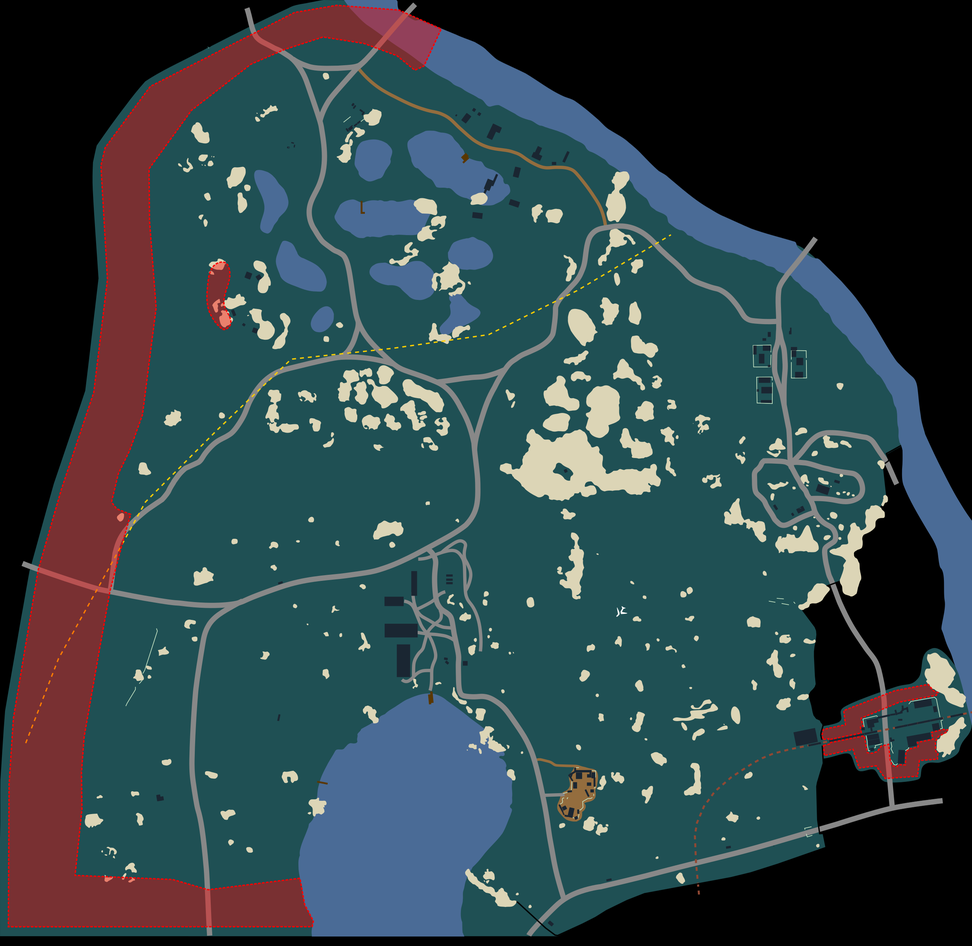
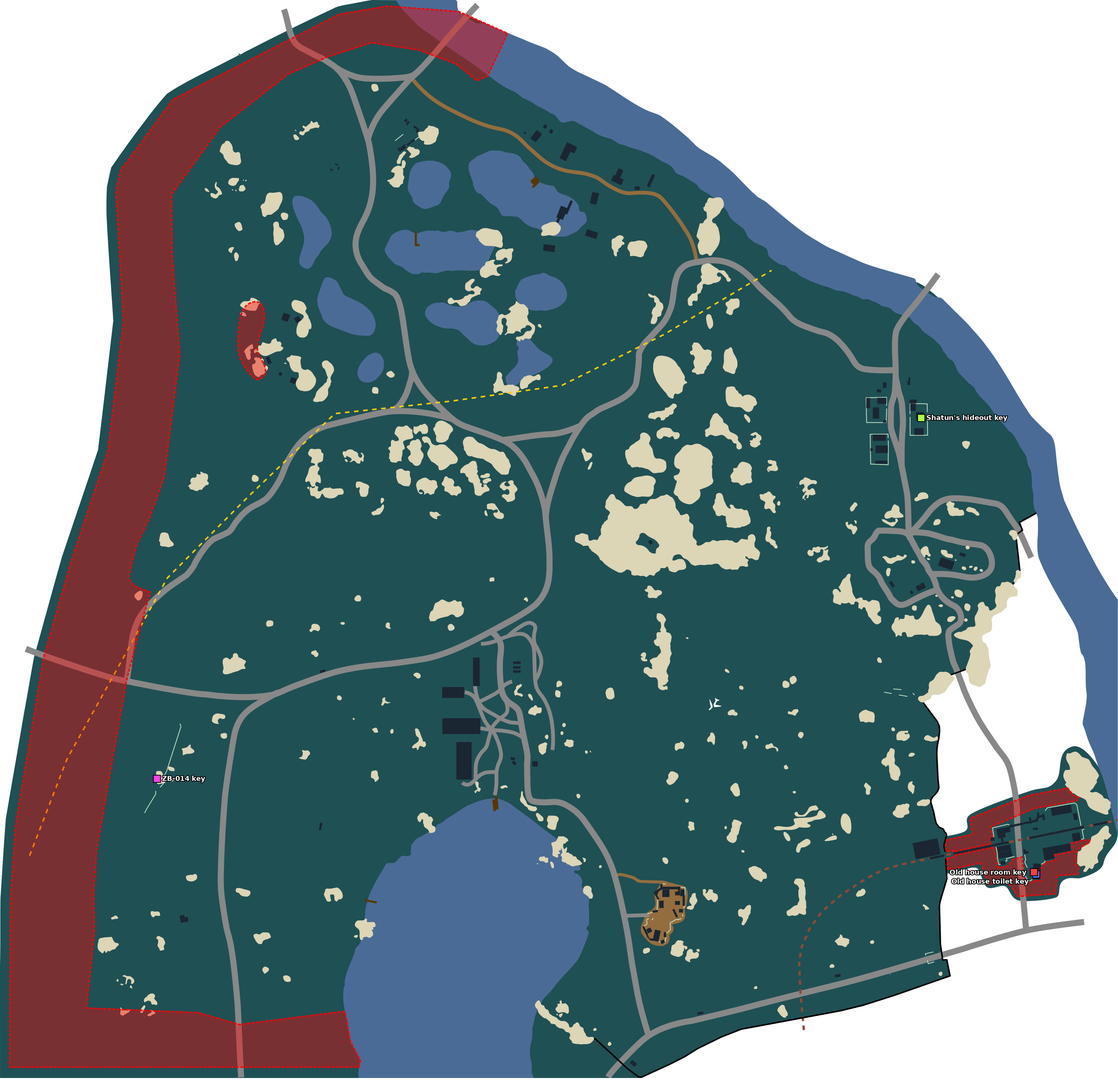
Add the Woods GPS pack with door keys and bilingual extracts
Woods.svg is one ground layer, so every height uses the same picture.
Four lock markers and a Keys legend come from the v1 pack. Extracts and
four transits are the tarkov.dev list in English and Russian. Max Z is
extended so RUAF Gate sits inside without sliding the art.

Changed region(s): [[0.0, 0.0, 1.0, 1.0], [0.0, 0.0, 0.3125, 0.8034], [0.125, 0.7107, 0.1875, 0.7416]]

diff --git a/TarkovOverlay.Tests/MapUnderlayTests.cs b/TarkovOverlay.Tests/MapUnderlayTests.cs
@@ -198,7 +198,7 @@ public class MapUnderlayTests
         var maps = Load();
         var expected = new Dictionary<string, (int W, int H, int Extracts)>
         {
-            ["woods"] = (2560, 2492, 20),
+            ["woods"] = (2946, 2870, 24),
             ["lighthouse"] = (1575, 2560, 12),
             ["shoreline"] = (2560, 1695, 19),
             ["reserve"] = (2560, 2322, 11),
@@ -323,6 +323,95 @@ public class MapUnderlayTests
         Assert.Contains("outside the frame", map.Keycards.Single(k => k.Name == "Factory exit").Tip, StringComparison.OrdinalIgnoreCase);
         Assert.Equal("658199aa38c79576a2569e13", map.Keycards.Single(k => k.Name == "Science office").ItemId);
         Assert.DoesNotContain(map.Keycards, k => k.Name.Contains("stairs", StringComparison.OrdinalIgnoreCase));
+    }
+
+    [Fact]
+    public void WoodsRasterUsesThePackFrameAndDoorKeys()
+    {
+        var woods = Load().Single(m => m.Id == "woods");
+        Assert.Equal(180, woods.Rotation);
+        Assert.Equal(180, woods.CompassDegrees);
+        Assert.Equal(-761, woods.MinX);
+        Assert.Equal(646, woods.MaxX);
+        Assert.Equal(-914, woods.MinZ);
+        const double z1 = 455.841605;
+        Assert.Equal(z1, woods.MaxZ, 4);
+        Assert.Contains("Shebuka", woods.Credit);
+        var (width, height) = PngSize(woods.ImagePath);
+        Assert.Equal(2946, width);
+        Assert.Equal(2870, height);
+
+        using (var doc = JsonDocument.Parse(File.ReadAllText(Path.Combine(MapsDir(), "underlays.json"))))
+        {
+            var map = doc.RootElement.GetProperty("maps").EnumerateArray().Single(m => m.GetProperty("id").GetString() == "woods");
+            var published = map.GetProperty("publishedBounds");
+            Assert.Equal(442, published[1][1].GetDouble());
+            Assert.Equal(646, published[0][0].GetDouble());
+        }
+
+        // Published south edge stays on the original raster. The pad below it is empty.
+        var (_, edgeV) = Uv(woods, 0, 442);
+        Assert.Equal(2841.0 / 2870.0, edgeV, 4);
+
+        // Rotation 180: u=(646-x)/1407. ZB-014's door is the magenta marker.
+        Assert.True(WorldMath.TryImageUv(448.62, 65.58, woods.MinX, woods.MaxX, woods.MinZ, woods.MaxZ, woods.Rotation, out var lockU, out var lockV));
+        Assert.Equal((646 - 448.62) / 1407.0, lockU, 4);
+        Assert.InRange(lockU, 0, 1);
+        Assert.InRange(lockV, 0, 1);
+        var (_, shatunV) = Uv(woods, -513.13, -388.48);
+        Assert.True(shatunV < lockV);
+
+        Assert.Equal(24, woods.Extracts.Length);
+        Assert.Equal(20, woods.Extracts.Count(e => e.Faction is "pmc" or "scav" or "shared"));
+        Assert.Equal(4, woods.Extracts.Count(e => e.Faction == "transit"));
+        var gate = woods.Extracts.Single(e => e.NameEn == "RUAF Gate");
+        Assert.Equal("Ворота ВС РФ", gate.NameRu);
+        Assert.Equal("pmc", gate.Faction);
+        Assert.Equal(-142.5, gate.X);
+        Assert.Equal(-2.37, gate.Y, 2);
+        Assert.Equal(447.58, gate.Z);
+        var flare = woods.Extracts.Single(e => e.NameEn == "Power Line Passage (Flare)");
+        Assert.Equal("Проход у ЛЭП (Сигнал)", flare.NameRu);
+        Assert.Equal(-1.75, flare.Y, 2);
+        var bridge = woods.Extracts.Single(e => e.NameEn == "Friendship Bridge (Co-Op)");
+        Assert.Equal("Мост дружбы (Совм.)", bridge.NameRu);
+        Assert.Equal("shared", bridge.Faction);
+        var bunker = woods.Extracts.Single(e => e.NameEn == "Scav Bunker");
+        Assert.Equal("Бункер Диких", bunker.NameRu);
+        Assert.Equal("scav", bunker.Faction);
+        var customs = woods.Extracts.Single(e => e.NameEn == "Transit to Customs");
+        Assert.Equal("Переход на Таможню", customs.NameRu);
+        Assert.Equal("transit", customs.Faction);
+        Assert.Equal("41", customs.Id);
+        foreach (var extract in woods.Extracts)
+        {
+            Assert.False(string.IsNullOrWhiteSpace(extract.NameRu));
+            var (eu, ev) = Uv(woods, extract);
+            Assert.InRange(eu, 0, 1);
+            Assert.InRange(ev, 0, 1);
+            if (extract.NameEn == "RUAF Gate")
+                Assert.True(ev > edgeV, "RUAF Gate sits in the padded strip, past the published edge");
+            else
+                Assert.True(ev <= edgeV + 1e-4, extract.NameEn);
+        }
+
+        Assert.Equal(14, woods.Labels.Length);
+        Assert.Contains(woods.Labels, l => l.Text == "Power Line Passage (Flare)" && l.TextRu == "Проход у ЛЭП (Сигнал)");
+        Assert.Contains(woods.Labels, l => l.Text == "Transit to Factory" && l.TextRu == "Переход на Завод");
+        Assert.Single(woods.Labels, l => l.Text == "UN Roadblock");
+        Assert.Single(woods.Labels, l => l.Text == "Outskirts");
+        Assert.DoesNotContain(woods.Labels, l => l.Text is "Scav Bunker" or "Eastern Rocks" or "Sawmill" or "Cultist Village" or "wood_sniper_exit" or "East Gate");
+
+        Assert.Equal(4, woods.Keycards.Length);
+        Assert.Equal(
+            new[] { "#ff3f3f", "#3f77ff", "#afff3f", "#ff3fe7" },
+            woods.Keycards.Select(k => k.Fill).ToArray());
+        Assert.All(woods.Keycards, k => Assert.False(k.RoomFill));
+        Assert.All(woods.Keycards, k => Assert.Equal(1, k.Count));
+        Assert.Equal("6761a6ccd9bbb27ad703c48a", woods.Keycards.Single(k => k.Name == "Old house room").ItemId);
+        Assert.Equal("6939948dc2ceb9acd7082eb2", woods.Keycards.Single(k => k.Name == "Old house toilet").ItemId);
+        Assert.Equal("664d3db6db5dea2bad286955", woods.Keycards.Single(k => k.Name == "Shatun's hideout").ItemId);
+        Assert.Equal("591afe0186f77431bd616a11", woods.Keycards.Single(k => k.Name == "ZB-014").ItemId);
     }
 
     [Fact]

diff --git a/TarkovOverlay/Services/ExtractNav.cs b/TarkovOverlay/Services/ExtractNav.cs
@@ -7,12 +7,15 @@ public static class ExtractNav
     public static bool FactionVisible(string? faction, string? side)
     {
         if (side is not ("pmc" or "scav")) return true;
-        if (string.IsNullOrEmpty(faction) || faction is "shared") return true;
-        return string.Equals(faction, side, StringComparison.OrdinalIgnoreCase);
+        var kind = faction?.Trim().ToLowerInvariant();
+        if (string.IsNullOrEmpty(kind) || kind is "shared") return true;
+        // Map transits are PMC exits. A scav raid does not list them.
+        if (kind is "transit") return side == "pmc";
+        return kind == side;
     }
 
     /// <summary>
-    /// Extracts drawn on the map overview. PMC and shared are the default.
+    /// Extracts drawn on the map overview. PMC, shared, and transits are the default.
     /// A known scav raid shows scav and shared instead. The full list, including the other faction, stays on the map data.
     /// </summary>
     public static bool OverviewVisible(string? faction, string? side)
@@ -20,7 +23,7 @@ public static class ExtractNav
         if (string.Equals(side, "scav", StringComparison.OrdinalIgnoreCase))
             return FactionVisible(faction, "scav");
         var kind = faction?.Trim().ToLowerInvariant();
-        return string.IsNullOrEmpty(kind) || kind is "pmc" or "shared";
+        return string.IsNullOrEmpty(kind) || kind is "pmc" or "shared" or "transit";
     }
 
     public static NearestExtract? Nearest(GameMap map, Vec3 pos, string? side)

diff --git a/TarkovOverlay/Windows/MapWindow.xaml.cs b/TarkovOverlay/Windows/MapWindow.xaml.cs
@@ -1079,6 +1079,7 @@ public partial class MapWindow : Window
         "pmc" => PmcBrush,
         "scav" => ScavBrush,
         "shared" => SharedBrush,
+        "transit" => TransitBrush,
         _ => OtherBrush
     };
 
@@ -1093,6 +1094,7 @@ public partial class MapWindow : Window
     private static readonly Brush PmcBrush = Freeze(Color.FromRgb(90, 200, 120));
     private static readonly Brush ScavBrush = Freeze(Color.FromRgb(230, 180, 80));
     private static readonly Brush SharedBrush = Freeze(Color.FromRgb(142, 180, 255));
+    private static readonly Brush TransitBrush = Freeze(Color.FromRgb(255, 154, 60));
     private static readonly Brush OtherBrush = Freeze(Color.FromRgb(200, 205, 210));
     private static readonly Brush QuietBrush = Freeze(Color.FromRgb(230, 180, 70));
     private static readonly Brush LabelBg = Freeze(Color.FromArgb(210, 16, 19, 22));

diff --git a/TarkovOverlay.Tests/GpsTests.cs b/TarkovOverlay.Tests/GpsTests.cs
@@ -66,6 +66,12 @@ public class GpsTests
         Assert.True(ExtractNav.OverviewVisible("scav", "scav"));
         Assert.True(ExtractNav.OverviewVisible("shared", "scav"));
         Assert.False(ExtractNav.OverviewVisible("pmc", "scav"));
+        Assert.True(ExtractNav.OverviewVisible("transit", null));
+        Assert.True(ExtractNav.OverviewVisible("transit", "pmc"));
+        Assert.False(ExtractNav.OverviewVisible("transit", "scav"));
+        Assert.True(ExtractNav.FactionVisible("transit", "pmc"));
+        Assert.False(ExtractNav.FactionVisible("transit", "scav"));
+        Assert.True(ExtractNav.FactionVisible("PMC", "pmc"));
     }
 
     [Fact]

diff --git a/README.ru.md b/README.ru.md
@@ -47,11 +47,12 @@
 - У Лаборатории нет улицы. Окно остаётся на плане этажа: **T / 1 / 2** (Technical, First, Second). Этаж берётся по высоте (ниже -0.9 технический, ниже 3 первый, иначе второй). Кнопка держит выбранный этаж, пока высота не перейдёт в другой диапазон. Закрытые комнаты закрашены цветом ключ-карты. Кнопка **Keys** показывает эти цвета; неопознанный ключ — серая метка без заливки комнаты. Масштаб и следование за игроком такие же, как на остальных картах. Выходы берутся с tarkov.dev и рисуются на своём этаже.
 - Завод, включая ночной, — крытый комплекс. Окно остаётся на плане этажа: **-1 / 1 / 2 / 3** (подвал, первый, второй, третий). Этаж берётся по высоте (ниже -1 подвал, ниже 3 первый, ниже 6 второй, иначе третий). Кнопка держит выбранный этаж, пока высота не перейдёт в другой диапазон. До первой позиции показывается обзор. Замки — метки дверей: ключ аварийного выхода (оранжевый) и ключ-карта склада TerraGroup (фиолетовая). Кнопка **Keys** показывает эти два цвета. Масштаб и следование за игроком такие же, как на остальных картах, и смена этажа не сбрасывает вид. Выходы берутся с tarkov.dev и рисуются на своём этаже.
 - Эпицентр использует растр GroundZero.svg на официальной рамке (`x0=249`, `z0=-124`, `x1=-99`, `z1=364`, поворот 180). Окно остаётся на плане этажа: **-1 / 1 / 2 / 3** (подземный, первый, второй, третий). Этаж берётся по высоте (ниже 21 подземный, ниже 28 первый, ниже 32.3 второй, иначе третий). Кнопка держит выбранный этаж, пока высота не перейдёт в другой диапазон. До первой позиции показывается обзор — это изображение первого этажа. Замки — метки дверей. Кнопка **Keys** показывает пять цветов на карте; второй ключ аварийного выхода Завода лежит за рамкой и не рисуется. Масштаб и следование за игроком такие же, как на остальных картах, и смена этажа не сбрасывает вид. Выходы берутся с tarkov.dev и рисуются на этаже, который выбирает их высота. Подписи выходов уже нарисованы на изображении первого этажа. Около 57% контейнеров попадают на пиксели зданий. Сдвиг x+2 задел бы больше и сдвинул бы метки дверей с нарисованных пикселей, поэтому официальная рамка не меняется.
+- Лес использует растр Woods.svg (`x0=646`, `z0=-914`, `x1=-761`, поворот 180). В SVG один наземный слой, поэтому любая высота показывает эту картинку и переключателя этажей нет. Верхняя граница Z расширена примерно до 455.84, чтобы ворота ВС РФ, опубликованные на несколько метров дальше 442, попали в кадр. Сам рисунок остаётся на исходной рамке. Замки — метки дверей: комната старого дома, туалет старого дома, убежище Шатуна и ЗБ-014. Кнопка **Keys** показывает эти четыре цвета. Заливки комнат нет. Выходы и четыре перехода берутся с tarkov.dev на английском и русском. На обзоре ЧВК рисуются выходы ЧВК, общие и переходы. Выходы диких остаются в файле.
 - Скрыть карту — не выключить стрелку. Скрыть стрелку — не забыть окно карты. `Ctrl+Alt+O` по-прежнему прячет весь оверлей.
 - После разбора имени файла скриншот удаляется (`GpsDeleteAfterParse`, по умолчанию включено), чтобы папка не разрасталась. Автоскриншот можно выключить в трее и снимать кадр вручную.
 - Текущая карта берётся из логов игры (те же логи, что и для PvP/PvE/Сезона). Вне рейда стрелка и карта скрыты.
 
-Подложка лежит на публичных рамках карт [tarkov.dev](https://tarkov.dev) (границы и `coordinateRotation` из их данных под лицензией MIT, сверенные с координатами спавнов и выходов того же API). Таможня использует растр Customs.svg автора Shebuka из [the-hideout/tarkov-dev-svg-maps](https://github.com/the-hideout/tarkov-dev-svg-maps) (CC BY-NC-SA 4.0). Лаборатория использует Labs.svg из того же проекта. Рамка подогнана: у tarkov.dev нет svgBounds для Лаборатории, поэтому маркер может стоять на несколько метров в стороне. Завод использует Factory.svg из того же проекта на опубликованной рамке: обзор совпадает с первым этажом, остальные этажи делят ту же рамку. Эпицентр использует GroundZero.svg на официальных границах tarkov.dev: обзор — это первый этаж, остальные этажи делят ту же рамку. EFT TarkDev 2026-11-04 разрешил использовать сайт и его данные для этой программы; заметка и скриншот лежат в `TarkovOverlay/Maps/attribution/`. Маркеры выходов Таможни берутся из [json.tarkov.dev/regular/maps](https://json.tarkov.dev/regular/maps): ЗБ-1011 и ЗБ-1012 слева, Перекрёсток, Трейлерный парк и Блокпост ВС РФ справа. Выходы Завода, Эпицентра и Лаборатории берутся из того же API и рисуются на этаже, который выбирает их высота. На обзоре показываются выходы ЧВК и общие; выходы диких остаются в этих данных для будущего фильтра по списку рейда. Подписи следуют языку оверлея. Лес, Маяк, Берег, Резерв, Развязка, Улицы Таркова и Терминал используют соответствующий SVG того же проекта (обзор земли, без верхних этажей). Рамки Леса и Развязки чуть расширены, где выход оказывался сразу за опубликованной границей. У Завода и Эпицентра рамка пакета не сдвигается, потому что обзор — это растр первого этажа. Ночной Завод и Эпицентр 21 уровня используют те же картинки через прежние псевдонимы. У Лабиринта в том репозитории нет SVG, поэтому там остаётся пустая рамка. Тайлы MapGenie и текстуры карты из самой игры нельзя переупаковывать. Это не официальная карта игры. Нажатие клавиши скриншота — обычный ввод. Персонаж не двигается, покупки и продажи не совершаются, данные аккаунта не читаются.
+Подложка лежит на публичных рамках карт [tarkov.dev](https://tarkov.dev) (границы и `coordinateRotation` из их данных под лицензией MIT, сверенные с координатами спавнов и выходов того же API). Таможня использует растр Customs.svg автора Shebuka из [the-hideout/tarkov-dev-svg-maps](https://github.com/the-hideout/tarkov-dev-svg-maps) (CC BY-NC-SA 4.0). Лаборатория использует Labs.svg из того же проекта. Рамка подогнана: у tarkov.dev нет svgBounds для Лаборатории, поэтому маркер может стоять на несколько метров в стороне. Завод использует Factory.svg из того же проекта на опубликованной рамке: обзор совпадает с первым этажом, остальные этажи делят ту же рамку. Эпицентр использует GroundZero.svg на официальных границах tarkov.dev: обзор — это первый этаж, остальные этажи делят ту же рамку. Лес использует пакет Woods v1 (Woods.svg): один наземный слой, четыре метки дверей и без переключателя этажей. Южный край расширен, чтобы ворота ВС РФ попали в кадр; рисунок пакета остаётся на опубликованной рамке. EFT TarkDev 2026-11-04 разрешил использовать сайт и его данные для этой программы; заметка и скриншот лежат в `TarkovOverlay/Maps/attribution/`. Маркеры выходов Таможни берутся из [json.tarkov.dev/regular/maps](https://json.tarkov.dev/regular/maps): ЗБ-1011 и ЗБ-1012 слева, Перекрёсток, Трейлерный парк и Блокпост ВС РФ справа. Выходы Завода, Эпицентра и Лаборатории берутся из того же API и рисуются на этаже, который выбирает их высота. Выходы Леса и четыре перехода берутся из того же API. На обзоре показываются выходы ЧВК и общие; на Лесу ещё и переходы. Выходы диких остаются в этих данных для будущего фильтра по списку рейда. Подписи следуют языку оверлея. Маяк, Берег, Резерв, Развязка, Улицы Таркова и Терминал используют соответствующий SVG того же проекта (обзор земли, без верхних этажей). Рамка Развязки чуть расширена, где выход оказывался сразу за опубликованной границей. У Завода и Эпицентра рамка пакета не сдвигается, потому что обзор — это растр первого этажа. Ночной Завод и Эпицентр 21 уровня используют те же картинки через прежние псевдонимы. У Лабиринта в том репозитории нет SVG, поэтому там остаётся пустая рамка. Тайлы MapGenie и текстуры карты из самой игры нельзя переупаковывать. Это не официальная карта игры. Нажатие клавиши скриншота — обычный ввод. Персонаж не двигается, покупки и продажи не совершаются, данные аккаунта не читаются.
 
 ## Как это работает
 

diff --git a/README.md b/README.md
@@ -47,11 +47,12 @@ In a raid the overlay can press the in-game screenshot key (Print Screen by defa
 - The Lab has no outdoor map. The window stays on the floor plan: **T / 1 / 2** (Technical, First, Second). Your height picks the floor (below -0.9 Technical, below 3 First, otherwise Second). A button keeps that floor until you change level. Locked rooms are painted in the keycard color. **Keys** lists those colors; the unidentified key is a gray marker with no room fill. Zoom and follow work the same way as on the other maps. Extracts come from tarkov.dev and are drawn on the floor they belong to.
 - Factory is an indoor complex, including night Factory. The window stays on the floor plan: **-1 / 1 / 2 / 3** (basement, ground, second, third). Your height picks the floor (below -1 basement, below 3 ground, below 6 second, otherwise third). A button keeps that floor until you change level. Until a position arrives the window shows the overview. Locks are door markers: the emergency exit key (orange) and the TerraGroup storage keycard (violet). **Keys** lists those two colors. Zoom and follow work the same way as on the other maps, and switching floors keeps the view. Extracts come from tarkov.dev and are drawn on the floor they belong to.
 - Ground Zero uses the GroundZero.svg raster on the official frame (`x0=249`, `z0=-124`, `x1=-99`, `z1=364`, rotation 180). The window stays on the floor plan: **-1 / 1 / 2 / 3** (underground, ground, second, third). Your height picks the floor (below 21 underground, below 28 ground, below 32.3 second, otherwise third). A button keeps that floor until you change level. Until a position arrives the window shows the overview, which is the ground raster. Locks are door markers. **Keys** lists the five colors drawn on the map; a second Factory emergency exit key sits outside the frame and is not drawn. Zoom and follow work the same way as on the other maps, and switching floors keeps the view. Extracts come from tarkov.dev and are drawn on the floor their height selects. The ground image already paints those captions. About 57% of loot containers land on building pixels. An x+2 shift would catch more of them and would also move the door markers off the painted pixels, so the official frame is unchanged.
+- Woods uses the Woods.svg raster (`x0=646`, `z0=-914`, `x1=-761`, rotation 180). The SVG has one ground layer, so every height uses that picture and there is no floor switch. Max Z is extended to about 455.84 so RUAF Gate, published a few metres past 442, sits inside the picture. The art itself stays on the original rect. Locks are door markers: old house room, old house toilet, Shatun's hideout, and ZB-014. **Keys** lists those four colors. There is no room fill. Extracts and the four transits come from tarkov.dev in English and Russian. A PMC overview draws PMC, shared, and transit markers. Scav extracts stay in the file.
 - Hiding the map does not turn off the arrow. Hiding the arrow does not forget the map window. `Ctrl+Alt+O` still hides the whole overlay.
 - After a file name is parsed, that screenshot is deleted (`GpsDeleteAfterParse`, default on) so the folder does not fill up. Turn auto-capture off in the tray if you only want manual screenshots.
 - The current map comes from the game's own log files (the same logs used for PvP/PvE/Season). Outside a raid the arrow and the map hide.
 
-The underlay sits on the public [tarkov.dev](https://tarkov.dev) map frames (bounds and `coordinateRotation` from their MIT-licensed map data, checked against that API's spawn and extract coordinates). Customs uses the Customs.svg raster by Shebuka from [the-hideout/tarkov-dev-svg-maps](https://github.com/the-hideout/tarkov-dev-svg-maps) (CC BY-NC-SA 4.0). The Lab uses Labs.svg from that same project. Its frame is fitted, because tarkov.dev publishes no svgBounds for Labs, so a marker can sit a few metres off. Factory uses Factory.svg from that same project on the published frame; the overview is the ground floor, and the other floors share that frame. Ground Zero uses GroundZero.svg on the official tarkov.dev bounds; the overview is the ground raster, and the other floors share that frame. EFT TarkDev allowed use of the site and its data for this project on 2026-11-04; the note and screenshot are in `TarkovOverlay/Maps/attribution/`. Customs extract markers use positions from [json.tarkov.dev/regular/maps](https://json.tarkov.dev/regular/maps): ZB-1011 and ZB-1012 on the left, Crossroads, Trailer Park, and RUAF on the right. Factory, Ground Zero, and Lab extracts come from that same API and are drawn on the floor their height selects. The overview shows PMC and shared extracts; scav extracts stay in that file for a later raid-list filter. Labels follow the overlay language. Woods, Lighthouse, Shoreline, Reserve, Interchange, Streets of Tarkov, and Terminal use the matching ground-overview SVG from that same project. Woods and Interchange are padded a few metres where an extract sat just outside the published rect. Factory and Ground Zero keep their pack frames, because each overview is the ground-floor raster. Night Factory and Ground Zero level 21 keep using those images through the existing aliases. Labyrinth has no SVG in that repo, so it stays a plain frame. MapGenie tiles and the game's own map textures are not licensed for redistribution. This is not an official game map. Pressing the screenshot key is ordinary input. It does not move your character, buy or sell items, or read account data.
+The underlay sits on the public [tarkov.dev](https://tarkov.dev) map frames (bounds and `coordinateRotation` from their MIT-licensed map data, checked against that API's spawn and extract coordinates). Customs uses the Customs.svg raster by Shebuka from [the-hideout/tarkov-dev-svg-maps](https://github.com/the-hideout/tarkov-dev-svg-maps) (CC BY-NC-SA 4.0). The Lab uses Labs.svg from that same project. Its frame is fitted, because tarkov.dev publishes no svgBounds for Labs, so a marker can sit a few metres off. Factory uses Factory.svg from that same project on the published frame; the overview is the ground floor, and the other floors share that frame. Ground Zero uses GroundZero.svg on the official tarkov.dev bounds; the overview is the ground raster, and the other floors share that frame. Woods uses the Woods v1 pack of Woods.svg: one ground layer, four door markers, and no floor switch. Its south edge is extended so RUAF Gate sits inside; the pack art stays on the published rect. EFT TarkDev allowed use of the site and its data for this project on 2026-11-04; the note and screenshot are in `TarkovOverlay/Maps/attribution/`. Customs extract markers use positions from [json.tarkov.dev/regular/maps](https://json.tarkov.dev/regular/maps): ZB-1011 and ZB-1012 on the left, Crossroads, Trailer Park, and RUAF on the right. Factory, Ground Zero, and Lab extracts come from that same API and are drawn on the floor their height selects. Woods extracts and its four transits come from that same API. The overview shows PMC and shared extracts; Woods also draws those transits. Scav extracts stay in that file for a later raid-list filter. Labels follow the overlay language. Lighthouse, Shoreline, Reserve, Interchange, Streets of Tarkov, and Terminal use the matching ground-overview SVG from that same project. Interchange is padded a few metres where an extract sat just outside the published rect. Factory and Ground Zero keep their pack frames, because each overview is the ground-floor raster. Night Factory and Ground Zero level 21 keep using those images through the existing aliases. Labyrinth has no SVG in that repo, so it stays a plain frame. MapGenie tiles and the game's own map textures are not licensed for redistribution. This is not an official game map. Pressing the screenshot key is ordinary input. It does not move your character, buy or sell items, or read account data.
 
 ## How it works
 

diff --git a/TarkovOverlay/Maps/attribution/SOURCE.md b/TarkovOverlay/Maps/attribution/SOURCE.md
@@ -49,6 +49,18 @@ The Ground Zero GPS images (`Maps/images/ground-zero.png`, `Maps/interiors/groun
 - GroundZero.svg has no locked-room fills. Door locks are colored markers. The legend is `Maps/ground-zero-keycards.json` (parking utility, factory exit, bank register, horse toilet, science office). Five markers are on the map. A second Factory emergency exit key at x=264.95 is outside the frame and is not drawn. The same five locks are published for ground-zero-21.
 - Extract positions: https://json.tarkov.dev/regular/maps (`Maps/ground-zero-extracts.json`), English and Russian names from `maps_en` / `maps_ru`, fetched with User-Agent `TarkovOverlay/1.0`. The ground raster paints the captions. A GPS marker is drawn on the floor its Y selects. Scav Bunker (East Gate), UN Roadblock, and Pinewood Basement are outside the frame. ground-zero-21 shares the in-frame extracts and does not publish those three.
 
+## Woods.svg (tarkov.dev)
+
+The Woods GPS image (`Maps/images/woods.png`) is a raster of the tarkov.dev Woods map. The SVG has a single ground layer, so the same picture is used at every height. There is no bunker floor and no floor switch.
+
+- URL: https://raw.githubusercontent.com/the-hideout/tarkov-dev-svg-maps/master/Woods.svg
+- Also: https://assets.tarkov.dev/maps/svg/Woods.svg · https://tarkov.dev/map/woods
+- Author: Shebuka / [the-hideout/tarkov-dev-svg-maps](https://github.com/the-hideout/tarkov-dev-svg-maps)
+- Licence upstream: [CC BY-NC-SA 4.0](https://creativecommons.org/licenses/by-nc-sa/4.0/), same permission as Customs below.
+- Frame: published rect `x0=646, z0=-914, x1=-761, z1=442`, `coordinateRotation` 180. Image top-left is `(x0, z0)`. tarkov.dev publishes no svgBounds for Woods. Max Z is extended to `455.841605` so RUAF Gate (published `z=447.58`) sits inside the picture. The SVG pixels stay on the original rect; the strip past `z=442` is empty. `u=(646-x)/1407`.
+- Locks are door markers. Woods.svg defines `.locked` but no element uses it, so nothing is painted as a room fill. The legend is `Maps/woods-keycards.json`: old house room (`#ff3f3f`), old house toilet (`#3f77ff`), Shatun's hideout (`#afff3f`), and ZB-014 (`#ff3fe7`). All four are on the ground layer.
+- Extract positions: https://json.tarkov.dev/regular/maps (`Maps/woods-extracts.json`), English and Russian names from `maps_en` / `maps_ru`, fetched with User-Agent `TarkovOverlay/1.0`. Twenty extracts plus four transits (Factory, Reserve, Lighthouse, Customs). A PMC overview draws PMC, shared, and transit markers. Scav extracts stay in the file. Y does not choose a floor.
+
 ## Permission
 
 Telegram **EFT TarkDev**, 2026-11-04. The user asked whether they could use the site and its data for their own EFT program. The reply was yes, and asked that a link to the program be sent later. Screenshot: [permission-eft-tarkdev-telegram.png](permission-eft-tarkdev-telegram.png).
@@ -60,12 +72,11 @@ Telegram **EFT TarkDev**, 2026-11-04. The user asked whether they could use the 
 
 ## Other overview rasters
 
-Woods, Lighthouse, Shoreline, Reserve, Interchange, Streets of Tarkov, and Terminal use the matching SVG from the same repository, rasterized as the ground overview only (the tarkov.dev base layer, plus any group marked to stay with it). Upper floors are not baked into these images. Factory and Ground Zero are the floor packs above, not these overviews.
+Lighthouse, Shoreline, Reserve, Interchange, Streets of Tarkov, and Terminal use the matching SVG from the same repository, rasterized as the ground overview only (the tarkov.dev base layer, plus any group marked to stay with it). Upper floors are not baked into these images. Factory, Ground Zero, and Woods are the packs above, not this batch.
 
-- Woods.svg, Lighthouse.svg, Shoreline.svg, Reserve.svg, Interchange.svg, StreetsOfTarkov.svg, Terminal.svg at https://github.com/the-hideout/tarkov-dev-svg-maps
+- Lighthouse.svg, Shoreline.svg, Reserve.svg, Interchange.svg, StreetsOfTarkov.svg, Terminal.svg at https://github.com/the-hideout/tarkov-dev-svg-maps
 - Author and licence: Shebuka / CC BY-NC-SA 4.0, same permission as Customs.
 - Lighthouse, Shoreline, Reserve, Streets of Tarkov, and Terminal use the published tarkov.dev frame. Spawns and extracts sit inside it. Terminal's API list has no extracts.
-- Woods extends max Z to `455.58` (published `442`) so RUAF Gate is inside the frame.
 - Interchange extends max X to `621.9` (published `598`) so Path to River (Flare) is inside the frame.
 - Extract positions: https://json.tarkov.dev/regular/maps, English and Russian names from `maps_en` / `maps_ru`, one `Maps/<id>-extracts.json` per map.
 

diff --git a/TarkovOverlay/Maps/attribution/PERMISSION.md b/TarkovOverlay/Maps/attribution/PERMISSION.md
@@ -8,4 +8,4 @@ The user asked, in Russian, whether they could use the tarkov.dev site and its d
 
 Screenshot: [permission-eft-tarkdev-telegram.png](permission-eft-tarkdev-telegram.png)
 
-This covers the Shebuka rasters from `the-hideout/tarkov-dev-svg-maps` (CC BY-NC-SA 4.0) shipped as GPS underlays: Customs.svg and its interior crops, Factory.svg and its four floors, GroundZero.svg and its floors, Labs.svg and its floors, and the ground overviews for Woods, Lighthouse, Shoreline, Reserve, Interchange, Streets of Tarkov, and Terminal. Extract positions come from `https://json.tarkov.dev/regular/maps`. See [SOURCE.md](SOURCE.md).
+This covers the Shebuka rasters from `the-hideout/tarkov-dev-svg-maps` (CC BY-NC-SA 4.0) shipped as GPS underlays: Customs.svg and its interior crops, Factory.svg and its four floors, GroundZero.svg and its floors, Labs.svg and its floors, the Woods v1 ground raster with its door markers, and the ground overviews for Lighthouse, Shoreline, Reserve, Interchange, Streets of Tarkov, and Terminal. Extract positions come from `https://json.tarkov.dev/regular/maps`. See [SOURCE.md](SOURCE.md).
